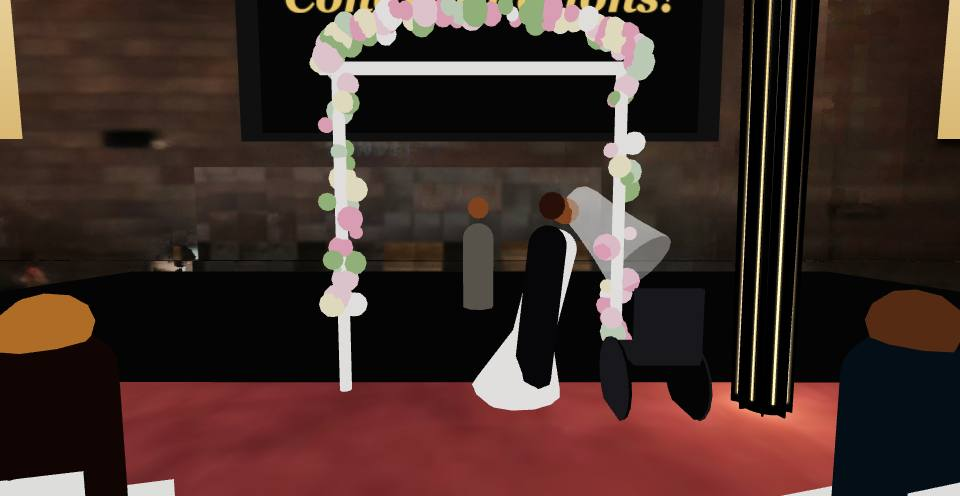
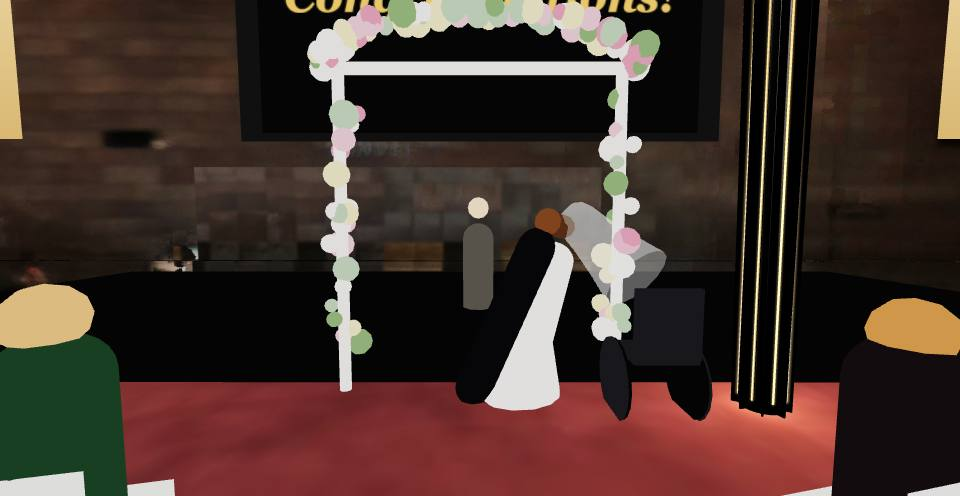
Shot 7 (Lloyd's note, V7): the bride is 8% shorter than the groom (her head at 1.49 m, his at 1.62), so he bends down to her for the kiss as well as the dip, his lean always the one that puts his head at hers; his body runs down to the floor, so leaning about his feet never lifts him off it
Claude-Session: https://claude.ai/code/session_01TvFyJ7jgaVEcvXM9wy2J9o

diff --git a/index.html b/index.html
@@ -2053,6 +2053,8 @@ function peopleMeshes(n,bodyLen){ const body=new THREE.CapsuleGeometry(0.16,body
  r.bm.frustumCulled=false; r.hm.frustumCulled=false;
  eventLitMats.push(r.bm.material,r.hm.material); return r; }
 const _pV=new THREE.Vector3(), _pS={x:1,y:1,z:1};
+// the wedding couple's head heights: the bride shorter than the groom (Lloyd, shot 7 V7)
+const HB=1.49, HG=1.62;
 function poseBH(bm,hm,i,x,z,bodyY,headY,scXZ,scY,bodyStretch){ _pS.x=scXZ; _pS.y=scY*(bodyStretch||1); _pS.z=scXZ; _cQ.identity();
  _cM.compose(_pV.set(x,bodyY,z),_cQ,_pS); bm.setMatrixAt(i,_cM);
  _pS.x=_pS.z=Math.min(scXZ,1.1); _pS.y=scY; _cM.compose(_pV.set(x,headY,z),_cQ,_pS); hm.setMatrixAt(i,_cM); }
@@ -2675,22 +2677,28 @@ function updateWedding(dt,t){
    // (Lloyd, V6) through the dip his head stays ON HER FACE, not down at her chest: the 16 cm
    // across turns with her body as she goes back (so it rises with her face), and his lean is
    // whatever puts his head at that height, not a fixed angle
-   if(i===0){ tiltA=0.11*kiss-0.35*dip; W.bt=tiltA; W.bh={x:fx+U.x*1.62*Math.sin(tiltA),z:fz+U.z*1.62*Math.sin(tiltA)}; }
-   else { const tb=W.bt||0, du=0.16*Math.cos(tb), hy=1.62*Math.cos(tb)-0.16*Math.sin(tb);
-    tiltA=-0.11*kiss*(1-dip)-Math.acos(Math.min(1,hy/1.62))*dip; const k=Math.max(kiss,dip), R=EVENT.N.inRoom;
-    if(W.bh&&k>0){ const hx=W.bh.x+U.x*du+R.x*0.16*k, hz=W.bh.z+U.z*du+R.z*0.16*k; const sx=hx-U.x*1.62*Math.sin(tiltA), sz=hz-U.z*1.62*Math.sin(tiltA); fx+=(sx-fx)*k; fz+=(sz-fz)*k; } } }
+   // (Lloyd, V7) the bride is shorter than the groom (her head at HB, his at HG), so he bends
+   // down to her for the kiss as well as the dip: his lean is always the one that puts his
+   // head at hers
+   if(i===0){ tiltA=0.11*kiss-0.35*dip; W.bt=tiltA; W.bh={x:fx+U.x*HB*Math.sin(tiltA),z:fz+U.z*HB*Math.sin(tiltA)}; }
+   else { const tb=W.bt||0, du=0.16*Math.cos(tb), hy=HB*Math.cos(tb)-0.16*Math.sin(tb), k=Math.max(kiss,dip), R=EVENT.N.inRoom;
+    tiltA=-Math.acos(Math.min(1,hy/HG))*k;
+    if(W.bh&&k>0){ const hx=W.bh.x+U.x*du+R.x*0.16*k, hz=W.bh.z+U.z*du+R.z*0.16*k; const sx=hx-U.x*HG*Math.sin(tiltA), sz=hz-U.z*HG*Math.sin(tiltA); fx+=(sx-fx)*k; fz+=(sz-fz)*k; } } }
   if(W.phase==='done'&&i===2)hide=true;
   // through the finale the bride and groom go where finaleStep puts them (out the door)
   if(W.fin&&i!==2){ if(W.fin.pos){ fx=W.fin.pos[i].x; fz=W.fin.pos[i].z; hide=false; } else hide=true; }
-  poseBH(W.cp.bm,W.cp.hm,i,fx+sway,fz,hide?-99:y0+0.78,hide?-99:y0+1.62,i===0?1.15:1,1);
+  // (Lloyd, V7) the bride is 8% shorter; the groom's body runs down to the floor (stretched
+  // 14%), so when he leans about his feet nothing shows daylight under him
+  if(i===0)poseBH(W.cp.bm,W.cp.hm,i,fx+sway,fz,hide?-99:y0+0.725,hide?-99:y0+HB,1.15,0.92);
+  else poseBH(W.cp.bm,W.cp.hm,i,fx+sway,fz,hide?-99:y0+0.78,hide?-99:y0+HG,1,1,i===1?1.14:1);
   if(i===0&&W.gown){ W.gown.visible=W.veil.visible=!hide;
-   if(!hide){ W.gown.position.set(fx+sway,y0+0.475,fz); W.veil.position.set(fx+sway,y0+1.76,fz); W.gown.updateMatrix(); W.veil.updateMatrix(); } }
+   if(!hide){ W.gown.position.set(fx+sway,y0+0.475,fz); W.veil.position.set(fx+sway,y0+HB+0.14,fz); W.gown.updateMatrix(); W.veil.updateMatrix(); } }
   if(tiltA||vLift){ const U=EVENT.N.u, ax=new THREE.Vector3(0,1,0).cross(U).normalize(), pv=new THREE.Vector3(fx+sway,y0,fz);
    const TR=new THREE.Matrix4().makeTranslation(pv.x,pv.y,pv.z).multiply(new THREE.Matrix4().makeRotationAxis(ax,tiltA)).multiply(new THREE.Matrix4().makeTranslation(-pv.x,-pv.y,-pv.z));
    if(tiltA){ W.cp.bm.getMatrixAt(i,_cM); _cM.premultiply(TR); W.cp.bm.setMatrixAt(i,_cM); W.cp.hm.getMatrixAt(i,_cM); _cM.premultiply(TR); W.cp.hm.setMatrixAt(i,_cM); }
    if(i===0&&W.gown&&!hide){ W.gown.updateMatrix(); W.gown.matrix.premultiply(TR);
     // the veil lifted: swung back over the head about its crown, away from the groom
-    const cr=new THREE.Vector3(fx+sway,y0+1.76,fz), VR=new THREE.Matrix4().makeTranslation(cr.x,cr.y,cr.z).multiply(new THREE.Matrix4().makeRotationAxis(ax,1.05*vLift)).multiply(new THREE.Matrix4().makeTranslation(-cr.x,-cr.y,-cr.z));
+    const cr=new THREE.Vector3(fx+sway,y0+HB+0.14,fz), VR=new THREE.Matrix4().makeTranslation(cr.x,cr.y,cr.z).multiply(new THREE.Matrix4().makeRotationAxis(ax,1.05*vLift)).multiply(new THREE.Matrix4().makeTranslation(-cr.x,-cr.y,-cr.z));
     W.veil.updateMatrix(); W.veil.matrix.premultiply(VR).premultiply(TR); } }
  }
  // RICE only ever leaves a hand that exists: guests still in their seats near the couple, or --
